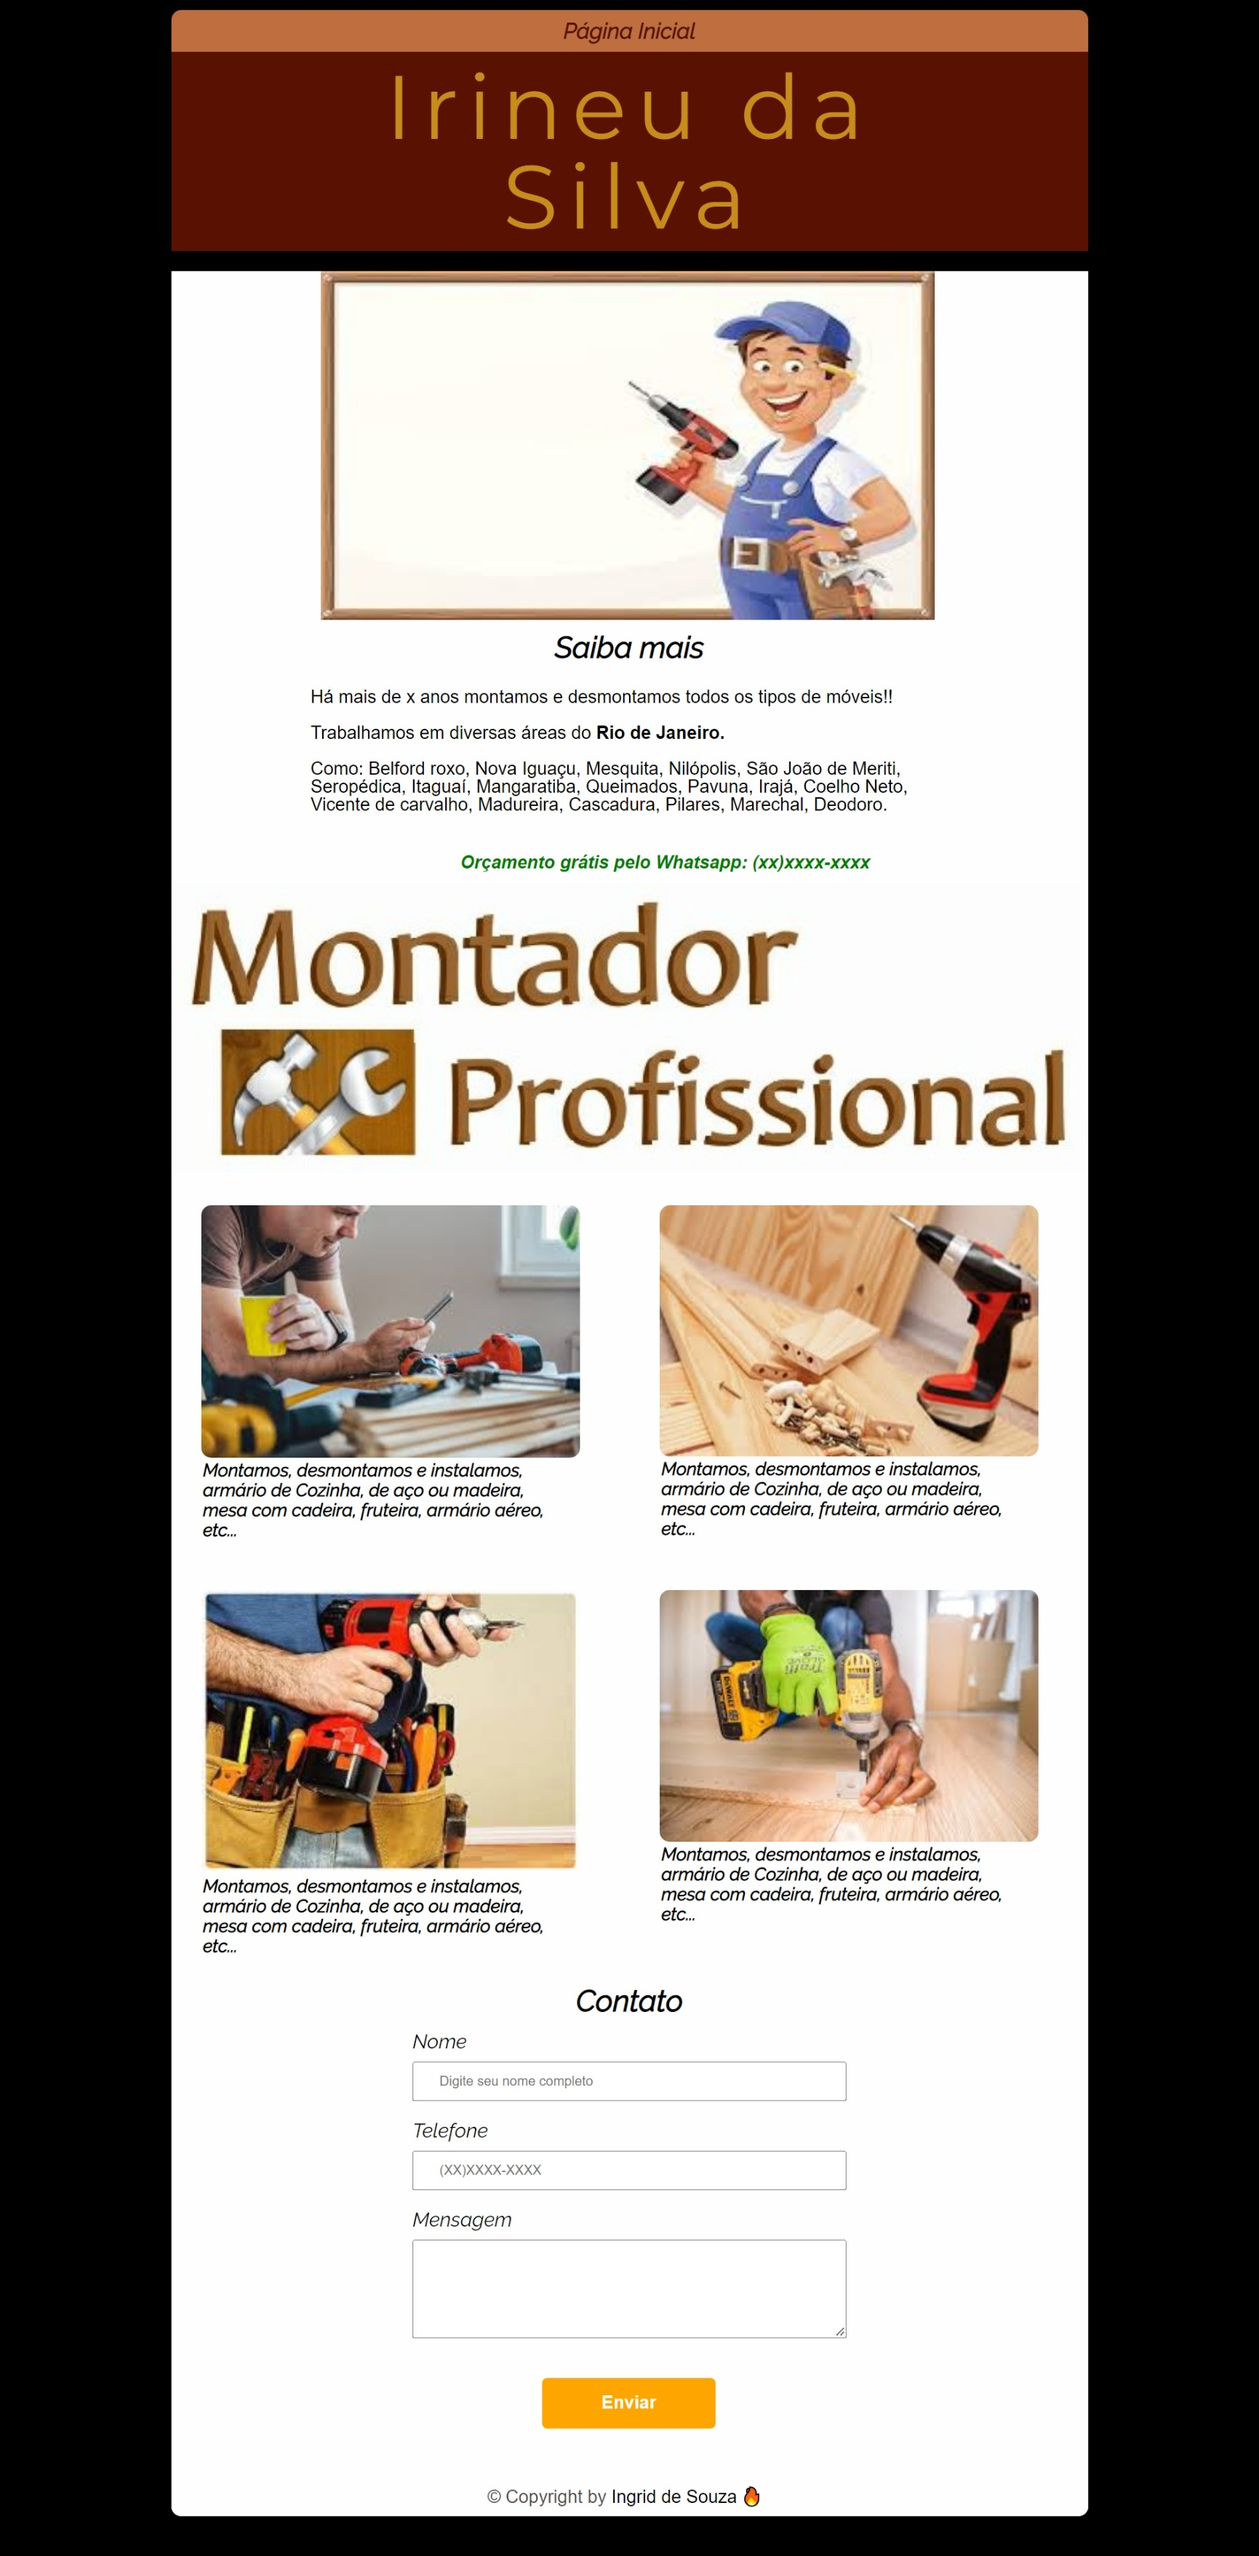
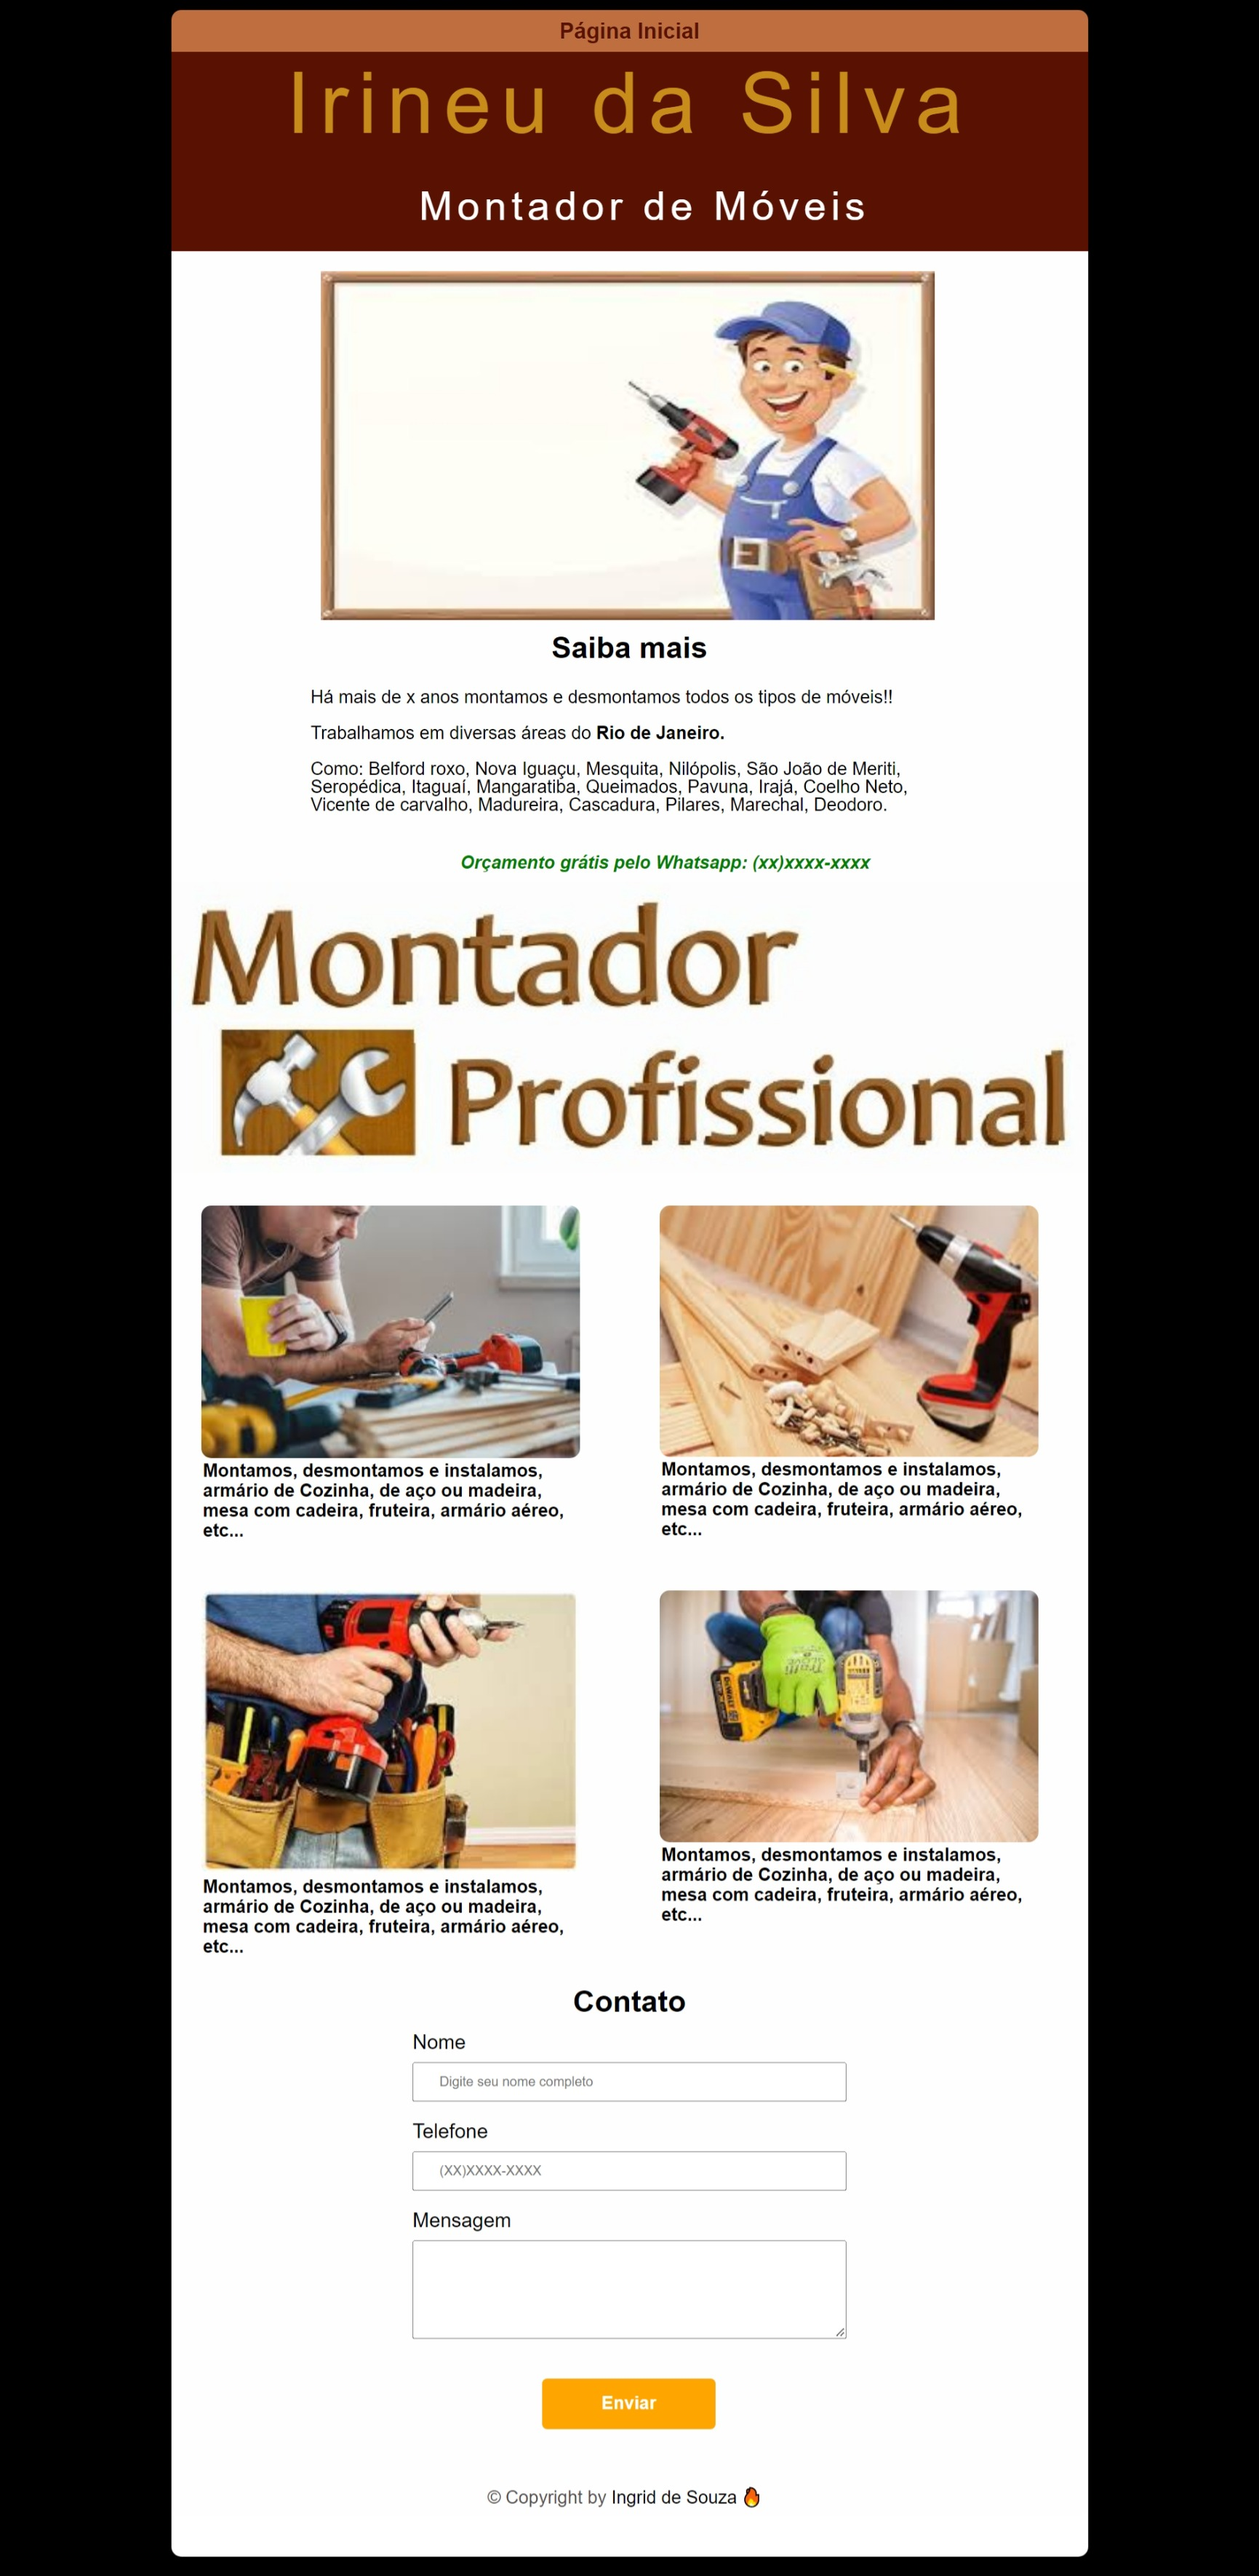
uptade

Changed region(s): [[0.1248, 0.0, 0.8735, 0.8685], [0.1248, 0.8995, 0.8735, 0.9926], [0.4679, 0.7755, 0.5615, 0.8065]]

diff --git a/estilos/style.css b/estilos/style.css
@@ -9,43 +9,10 @@ body {
 	margin-top: 10px;
 	font-family: 'Raleway', sans-serif;
 	margin-bottom: 20px;
-}
-header {
-	background: #BF6E3F;
-	padding: 10px 0;
-	position: relative;
-	width: 920px;
-	margin: 0 auto;
-	border-top-left-radius: 10px;
-	border-top-right-radius: 10px;
-}
-.header-info {
-	background: #591202;
-	color: #FFFFFF;
-	width: 920px;
-	margin: 0 auto;
-	height: 200px;
 	display: flex;
 	flex-direction: column;
 	align-items: center;
-}
-.header-info h1 {
-	font-family: 'Montserrat', sans-serif;
-	font-size: 90px;
-	text-align: center;
-	color: #C78C19;
-	padding-bottom: 40px;
-	padding-top: 10px;
-	letter-spacing: 10px;
-	width: 750px;
-}
-.header-info h2 {
-	font-size: 40px;
-	margin-left: 30px;
-	text-align: center;
-	color: #FFFFFF;
-	letter-spacing: 5px;
-	width: 600px;
+	justify-content: center;
 }
 nav {
 	text-align: center;
@@ -59,10 +26,50 @@ nav a {
 nav a:hover {
 	color: gold;
 }
+header {
+	background: #BF6E3F;
+	padding: 10px 0;
+	position: relative;
+	width: 920px;
+	border-top-left-radius: 10px;
+	border-top-right-radius: 10px;
+}
+.header-info {
+	background: #591202;
+	color: #FFFFFF;
+	width: 920px;
+	height: 200px;
+	display: flex;
+	flex-direction: column;
+	align-items: center;
+}
+.header-info h1 {
+	font-family: 'Montserrat', sans-serif;
+	font-size: 85px;
+	text-align: center;
+	color: #C78C19;
+	padding-bottom: 40px;
+	padding-top: 10px;
+	letter-spacing: 10px;
+	width: 700px;
+}
+.header-info h2 {
+	font-size: 40px;
+	margin-left: 30px;
+	text-align: center;
+	color: #FFFFFF;
+	letter-spacing: 5px;
+	width: 600px;
+}
+main {
+	background-color: #FFFFFF;
+	width: 920px;
+	border-bottom-left-radius: 10px;
+	border-bottom-right-radius: 10px;
+}
 section {
 	background-color: #FEFEFEFE;
 	width: 920px;
-	margin: 0 auto;
 	border-bottom-left-radius: 10px;
 	border-bottom-right-radius: 10px;
 }
@@ -70,11 +77,11 @@ section {
 .imagem-principal {
 	margin-bottom: 10px;
 	margin-left: 150px;
-	margin-top: 20px;
 }
 .imagem-principal img {
 	width: 80%;
 	height: 350px;
+	margin-top: 20px;
 }
 .titulo-principal {
 	text-align: center;
@@ -83,10 +90,8 @@ section {
 	font-weight: bold;
 }
 .principal {
-	padding: 0;
 	background-color: #FEFEFEFE;
 	width: 920px;
-	margin: 0 auto;
 	position: relative;
 }
 .principal p {
@@ -118,11 +123,9 @@ section {
 #imagens_principal {
     display: flex;
     justify-content: center;
-	padding-top: 0px;
 }
 #imagens_principal section {
     flex: 2;
-	padding: 0;
 }
 .flex {
     display: flex;
@@ -163,13 +166,7 @@ article .resume {
 	margin-left: 32px;
     width: 370px;
 }
-main {
-	background-color: #FFFFFF;
-	width: 920px;
-	margin: 0 auto;
-	border-bottom-left-radius: 10px;
-	border-bottom-right-radius: 10px;
-}
+/* formulário */
 .contato {
 	display: flex;
 	flex-direction: column;
@@ -223,17 +220,23 @@ footer {
 	color: gold;
 }
 /* responsivo */
-@media (max-width:650px) and (min-width: 375px)  {
+@media (max-width:650px) and (min-width: 300px)  {
 	body {
-		margin-left: 20px;
+		overflow-x: hidden;
 	}
 	header, 
 	.header-info, 
 	.principal,
 	.flex,
-	section
-	 {
+	section,
+	main
+	{
 		width: auto;
+	}
+	.header-info,
+	header 
+	{
+		width: 485px;
 	}
 	.header-info h1 {
 		font-size: 50px;
@@ -259,6 +262,13 @@ footer {
 	.titulo-principal {
 		text-align: left;
 		margin-left: 150px;
+	}
+	form label {
+		margin-left: 10px;
+	}
+	.input-padrao {
+		width: 80%;
+		margin-left: 20px;
 	}
 	footer {
 		margin-left: 0;
